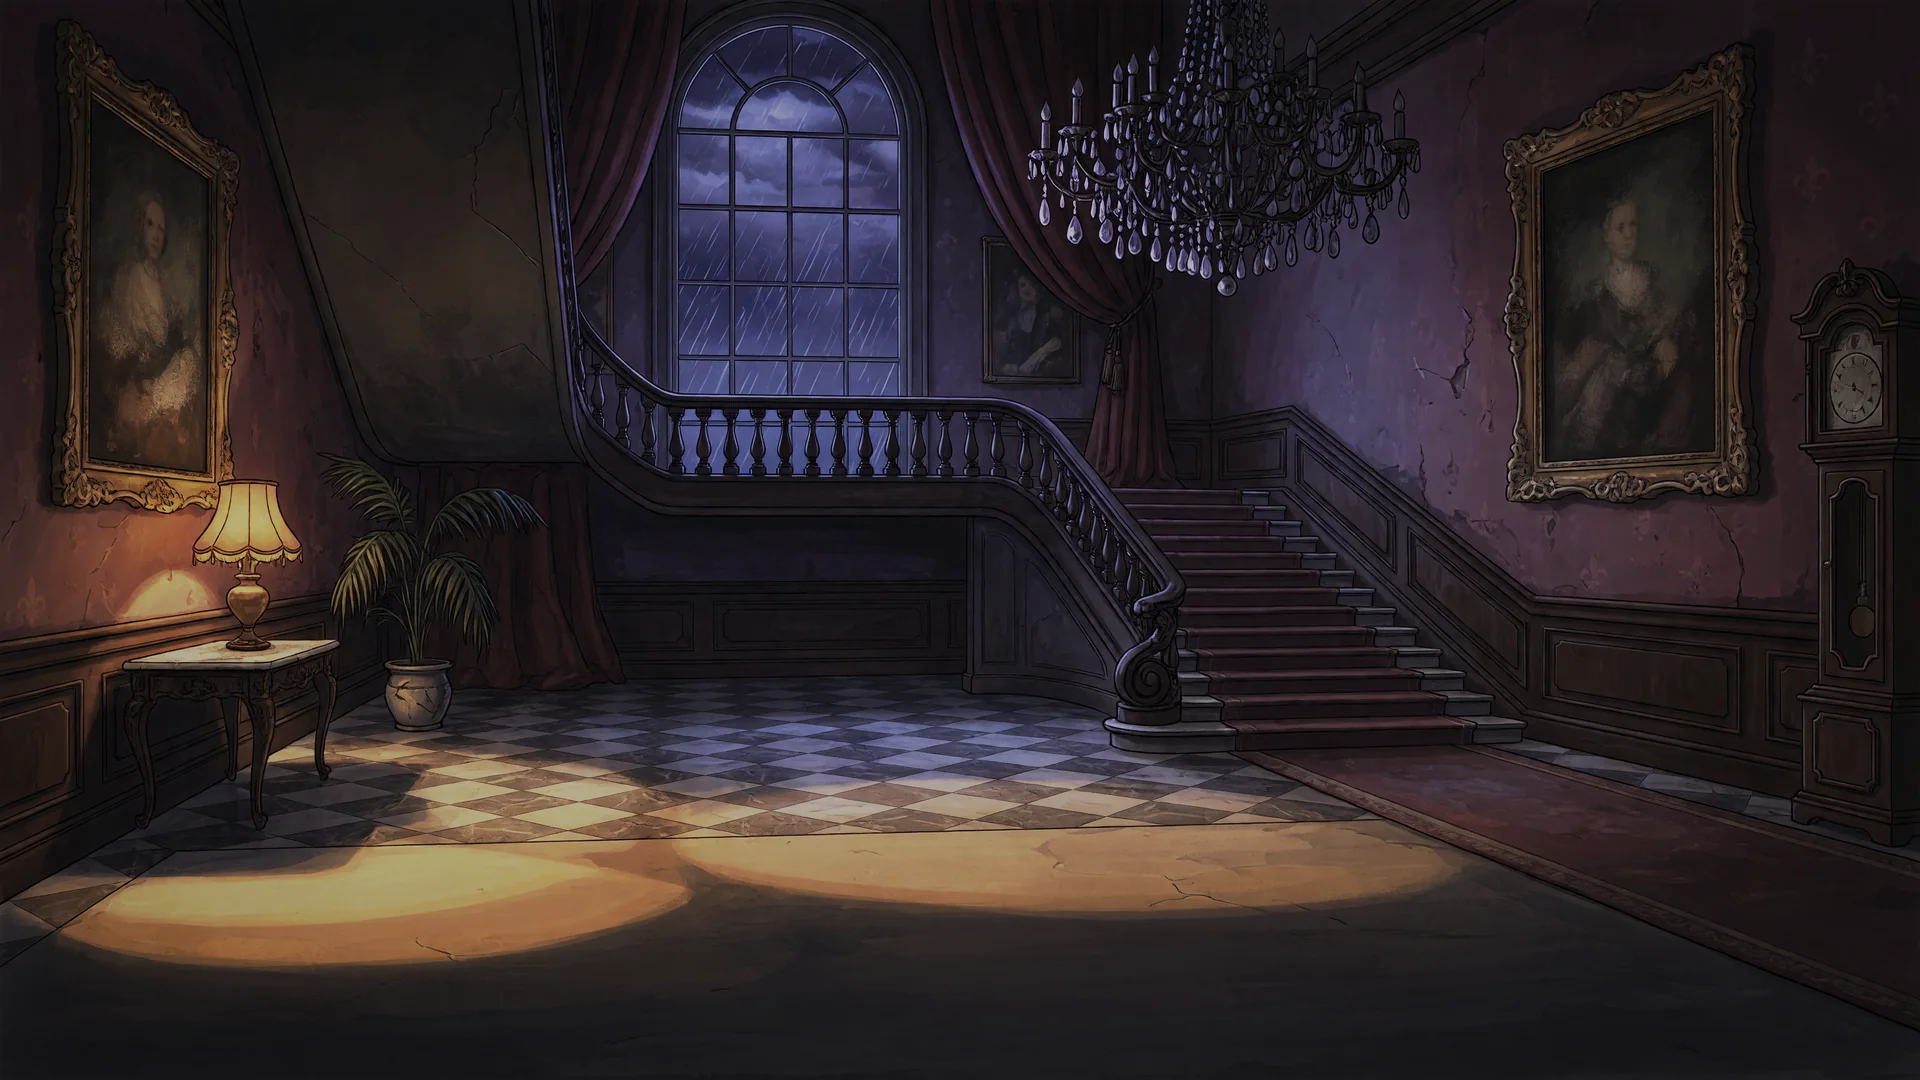
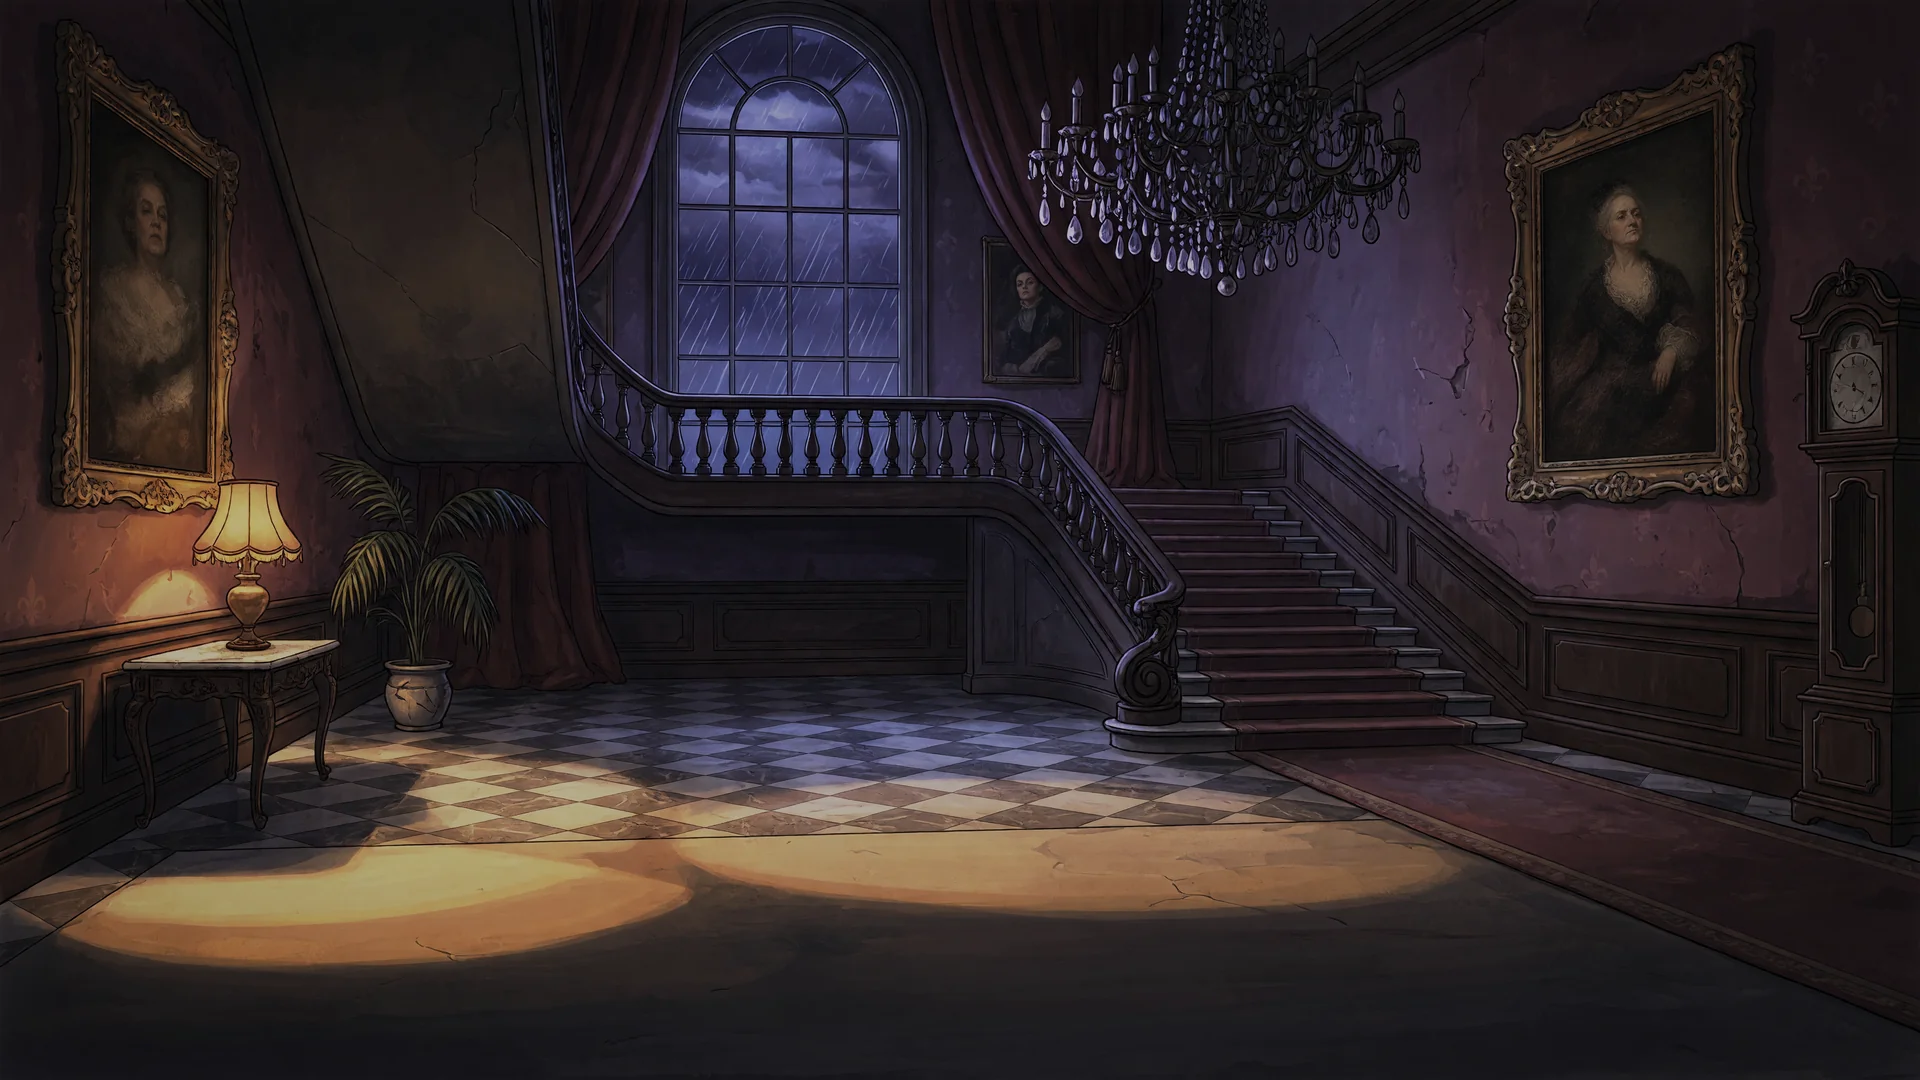
Polish-1: theatrical SAD poses for all four suspects, phone title layout clears the mansion, clearer painted manor portraits (base + lightning), bible log, preview

diff --git a/components/game/TitleScreen.tsx b/components/game/TitleScreen.tsx
@@ -4,9 +4,10 @@ import { motion } from "framer-motion";
 import Image from "next/image";
 
 // Title card art: docs/ART_BIBLE.md §7.0 (assets/title/ -> /assets/title/ via sync:assets).
+// Phones (max-sm): tighter tagline + button and less bottom padding so the stack clears the mansion base.
 export function TitleScreen({ tagline, onStart }: { tagline: string; onStart: () => void }) {
   return (
-    <main className="relative flex min-h-0 flex-1 flex-col items-center justify-between overflow-hidden bg-[#1b1035] bg-[url(/assets/title/title_bg.webp)] bg-cover bg-center px-6 py-[6vh] text-center">
+    <main className="relative flex min-h-0 flex-1 flex-col items-center justify-between overflow-hidden bg-[#1b1035] bg-[url(/assets/title/title_bg.webp)] bg-cover bg-center px-6 py-[6vh] text-center max-sm:pb-[3vh]">
       <div aria-hidden className="pointer-events-none absolute left-1/2 top-[22%] w-[130vmin] -translate-x-1/2 -translate-y-1/2">
         <motion.img
           src="/assets/title/sunburst.webp"
@@ -26,7 +27,7 @@ export function TitleScreen({ tagline, onStart }: { tagline: string; onStart: ()
       </motion.h1>
       <div className="relative flex flex-col items-center">
         <motion.p
-          className="relative max-w-xl rounded-2xl border-4 border-black bg-white px-6 py-3 text-lg font-bold text-black shadow-[6px_6px_0_#000] sm:text-xl"
+          className="relative max-w-xl rounded-2xl border-4 border-black bg-white px-6 py-3 text-lg font-bold text-black shadow-[6px_6px_0_#000] max-sm:max-w-80 max-sm:px-4 max-sm:py-2 max-sm:text-sm max-sm:shadow-[4px_4px_0_#000] sm:text-xl"
           initial={{ y: 40, opacity: 0 }}
           animate={{ y: 0, opacity: 1 }}
           transition={{ delay: 0.5, type: "spring", stiffness: 200 }}
@@ -36,7 +37,7 @@ export function TitleScreen({ tagline, onStart }: { tagline: string; onStart: ()
         <motion.button
           type="button"
           onClick={onStart}
-          className="relative mt-8 cursor-pointer rounded-full border-4 border-black bg-red-500 px-10 py-4 font-display text-3xl tracking-widest text-white shadow-[6px_6px_0_#000] hover:bg-red-400 active:translate-y-1 active:shadow-[2px_2px_0_#000]"
+          className="relative mt-8 cursor-pointer rounded-full border-4 border-black bg-red-500 px-10 py-4 font-display text-3xl tracking-widest text-white shadow-[6px_6px_0_#000] hover:bg-red-400 active:translate-y-1 active:shadow-[2px_2px_0_#000] max-sm:mt-5 max-sm:px-8 max-sm:py-3 max-sm:text-2xl"
           initial={{ opacity: 0, scale: 0.5 }}
           animate={{ opacity: 1, scale: [1, 1.08, 1] }}
           whileHover={{ rotate: [0, -3, 3, 0] }}

diff --git a/docs/ART_BIBLE.md b/docs/ART_BIBLE.md
@@ -73,7 +73,7 @@ Reginald, an original cartoon butler: a very tall, extremely thin, stick-like mi
 | nervous | `Pose: nervous — his whole posture collapses dramatically: knees bent and knocking, shoulders hunched, spine curved like a wilting noodle, big worried eyes darting, wobbly mouth, sweat drops flying off his head, dabbing his forehead with the tiny white handkerchief in one gloved hand.` |
 | shocked | `Pose: shocked — body stretched extra tall and rigid, eyes enormous and bulging, jaw dropped wide open, eyebrows shot up high, arms stiff and fingers splayed out.` |
 | smug | `Pose: smug — leaning back slightly with nose held high in the air, one eyebrow raised, half-lidded self-satisfied eyes, small tight smirk, one gloved hand resting on his lapel.` |
-| sad | `Pose: sad — drooping posture, shoulders slumped, head hung low, long arms dangling limply, eyebrows tilted up in the middle, glistening sad eyes, mouth turned down.` |
+| sad | `Pose: sad — theatrically, unmistakably sad at a glance: a heavy slump with the whole body sagging, drooping shoulders, head hanging forward and low, dabbing the corner of one eye with a tiny white handkerchief held in one white-gloved hand, the other long arm dangling limply, big watery glistening eyes brimming with tears, eyebrows tilted steeply up in the middle, trembling down-turned lower lip, a single tear rolling down his cheek. His mustache stays exactly as thin and neat as in the reference; same slicked hair and same black tailcoat.` |
 
 ---
 
@@ -111,7 +111,7 @@ Victoria, an original cartoon aristocratic widow: a tall, slender, elegant middl
 | nervous | `Pose: nervous — trying to stay composed but failing, fluttering her open fan rapidly in front of her face, eyes darting sideways, shoulders raised tensely, sweat drops flying off her head, knees pressed together.` |
 | shocked | `Pose: shocked — complete loss of composure: body stretched tall, both arms flung up in the air, her fan flying out of her hand, eyes enormous and bulging, mouth wide open, her updo coming loose with strands of hair springing out.` |
 | smug | `Pose: smug — very composed and superior, fan held open covering her mouth and nose, only her half-lidded self-satisfied eyes visible above it, one eyebrow arched, chin lifted, other hand on her hip.` |
-| sad | `Pose: sad — shoulders slumped gracefully, head bowed, eyes downcast and glistening, closed fan held against her chest with both gloved hands, eyebrows tilted up in the middle, mouth turned down.` |
+| sad | `Pose: sad — her composure breaking quietly: shoulders drooping, head bowed, the back of one gloved hand pressed to her brow in a theatrical gesture of sorrow, the other hand holding her fan lowered and CLOSED down at her side, big watery glistening eyes, eyebrows tilted up in the middle, trembling down-turned lower lip, a single tear on her cheek.` |
 
 ---
 
@@ -149,7 +149,7 @@ Archibald Crane, an original cartoon pompous businessman: a short, very wide, ro
 | nervous | `Pose: nervous — shrinking slightly, anxiously checking his gold pocket watch in one hand, tugging his tight collar with the other, sweat drops flying off his bald head, darting worried eyes, forced wobbly grin.` |
 | shocked | `Pose: shocked — jumping back with his round body stiff, eyes huge and bulging, jaw dropped, cigar falling out of his mouth, sideburns bristling, arms flung out, short legs off balance.` |
 | smug | `Pose: smug — leaning back with belly thrust forward, cigar tilted up jauntily, eyes half-lidded, big self-satisfied grin showing a gold tooth, thumbs in his waistcoat.` |
-| sad | `Pose: sad — deflated and sagging, belly drooping, shoulders slumped, cigar drooping down limply from his lip, eyebrows tilted up, mouth turned down, arms hanging at his sides.` |
+| sad | `Pose: sad — utterly deflated: his whole body sags, his huge belly droops low, shoulders slumped, head hanging, cigar drooping straight down limply from his lip, one hand holding open an EMPTY brown wallet upside down, the other hand pulling out a turned-out empty trouser pocket lining, big watery glistening eyes, huge eyebrows tilted steeply up in the middle, trembling down-turned lower lip, a single tear.` |
 
 ---
 
@@ -187,7 +187,7 @@ Gregory, an original cartoon gardener: a small, short, skinny hunched young man 
 | nervous | `Pose: nervous — shrinking and trembling, knees knocking together, clutching the shears tightly to his chest, huge frightened eyes darting sideways, sweat drops flying off his head, biting his lip.` |
 | shocked | `Pose: shocked — jolting upright in fright, his flat cap flying off his head, hair standing on end, eyes enormous and bulging, mouth wide open, arms flung up, shears flying from his hands.` |
 | smug | `Pose: smug — a rare sly little private grin, eyes half-lidded and knowing, one eyebrow raised, leaning on his closed pruning shears like a cane, other hand in his overall pocket.` |
-| sad | `Pose: sad — even more hunched and small, head hanging, big eyes glistening with tears, cap held in both hands against his chest, shears leaning against his leg, mouth turned down.` |
+| sad | `Pose: sad — shoulders hunched up high toward his ears, head hanging, bare-headed and anxiously twisting and wringing his flat cap in both hands in front of his chest, big watery glistening eyes brimming with tears, eyebrows tilted up in the middle, trembling down-turned lower lip, a single tear rolling down his cheek, garden shears leaning against his leg.` |
 
 ---
 
@@ -315,7 +315,7 @@ The opening screen should play like the title card of a 1940s theatrical cartoon
 | Background composition | The mansion is small and low: tower tops at ≈40% of frame height, with the hill across the bottom ≈45%. The upper-middle sky is kept open for the logo. A bent dead tree stands at the left and a lightning bolt with a broken fence at the right. The bolt is part of the painting (the title card has no separate flash frame; for a flash, briefly apply `filter: brightness(1.6) saturate(.5)` to the `<main>`). Grade: `grade(sat=0.92, hi=0.15, vig=0.35, center=(0.5, 0.5))`, a little livelier than the gameplay rooms |
 | Logo | Bangers (SIL OFL 1.1, see `assets/fonts/LICENSES.md`), drawn per letter by the share-image code (`toon-drafts/og/make_og.py → title()`), so it matches `app/opengraph-image.jpg`. Settings: size 330, 11 px→18 px black outline, yellow `#FFEC5A` → `#FFC428` → orange `#FF7618` gradient, plum-black `#12061C` drop shadow offset (16, 19), per-letter tilt `[-7, 4, -4, 5, -5, 3, -3, 4, 9, -5]°`, sine bounce ±20 px, whole word tilted 4° up to the right. The logo's I–T kerning is +14 (the OG image uses +6). The SVG has the same geometry but no glossy highlight stripe |
 | Sunburst | 28 alternating rays (14 lit) in `#FFBE46`, alpha 0.6×(1−r)^2.2, so they fade out before the frame edge. Place it centered behind the logo at ≈130vmin wide and rotate it slowly (one turn per 90 s) |
-| Screen layout (wired in `components/game/TitleScreen.tsx`) | `<main>`: `bg-[url(/assets/title/title_bg.webp)] bg-cover bg-center`, `justify-between`, `py-[6vh]`. Logo `<h1>` at the top (width `min(90vw, 1100px, 105vh)`, `alt="WHODUNIT?!"`). Sunburst centered at `top: 22%`. Tagline plus START button in a bottom group, sitting on the hill. Checked at 1920×1080, 1280×800 and 390×844 |
+| Screen layout (wired in `components/game/TitleScreen.tsx`) | `<main>`: `bg-[url(/assets/title/title_bg.webp)] bg-cover bg-center`, `justify-between`, `py-[6vh]`. Logo `<h1>` at the top (width `min(90vw, 1100px, 105vh)`, `alt="WHODUNIT?!"`). Sunburst centered at `top: 22%`. Tagline plus START button in a bottom group, sitting on the hill. Phones (`max-sm`, <640 px): tagline `text-sm px-4 py-2 max-w-80` with a 4 px shadow, button `text-2xl px-8 py-3 mt-5`, bottom padding `3vh`, so the group sits below the mansion's foundation instead of covering it (polish-1). `sm` and up are unchanged. Checked at 1920×1080, 1280×800 and 390×844 |
 | Iris transition (not shipped) | For an iris-out into the game, animate `clip-path: circle(R at 50% 50%)` from `R = 75vmax` to `0` on the outgoing screen over a black backdrop, 450–600 ms, `easeIn`, with a slide-whistle-down SFX. That needs no bitmap, which is why there's no PNG mask |
 | Mock | `docs/art/title_mock.jpg`: real screenshots of the running production build, plus the individual assets |
 
@@ -349,8 +349,8 @@ Scene: a grand old mansion library at night during a storm. A tall arched window
 | Field | Value |
 |---|---|
 | Files | `assets/backgrounds/manor.webp` (1920×1080, q85, ~176 KB), `assets/backgrounds/manor_lightning.webp` (1920×1080, q85, ~242 KB), `assets/backgrounds/manor_window_mask.webp` (1920×1080 alpha, glass only, lossless ~13 KB) |
-| Masters | `toon-drafts/backgrounds/raw/manor_2560x1440.png`, `manor_lightning_2560x1440.png` (+ `_1920x1080.png` lossless), `manor_window_mask.png` |
-| Contents | Same mansion as the library. A sweeping staircase with a carved banister rises on the right to a back gallery landing. A tall arched storm window sits above the landing (upper center-left; rain, no bolt at rest). An unlit crystal chandelier hangs top center-right. Gilt-framed portraits are darkened so their faces are unreadable smudges (left wall, right wall, and a small one on the landing). Oxblood curtains, plum walls, wainscoting, a marble side table with an amber lamp (far left), a potted palm, a grandfather clock (far right), a worn checkerboard marble floor with an oxblood runner, and two amber floor pools |
+| Masters | `toon-drafts/backgrounds/raw/manor_p1_2560x1440.png`, `manor_lightning_p1_2560x1440.png` (+ `_p1_1920x1080.png` lossless; the pre-polish `manor_*` files without `_p1` are the v0.1 masters), `manor_window_mask.png` (unchanged) |
+| Contents | Same mansion as the library. A sweeping staircase with a carved banister rises on the right to a back gallery landing. A tall arched storm window sits above the landing (upper center-left; rain, no bolt at rest). An unlit crystal chandelier hangs top center-right. Three gilt-framed portraits (left wall, right wall, and a small one on the landing) hold dim, painted, stern ancestors: generic, original sitters in the old umber/ochre palette, readable but still sunk in the gloom (repainted in polish-1; before that they were faceless smudges). Oxblood curtains, plum walls, wainscoting, a marble side table with an amber lamp (far left), a potted palm, a grandfather clock (far right), a worn checkerboard marble floor with an oxblood runner, and two amber floor pools |
 | Window region | x 35.1–47.1%, y 1.8–44.4% of frame (center ≈ 41%, 23%). This is the anchor for the `lightning` effect overlay in this room |
 | Rain layer / lightning swap | Same recipe as §7.1, using `manor_window_mask.webp` and `manor_lightning.webp`. The mask excludes the landing balusters and most of the mullions |
 | Screen fit (actual app) | `SuspectSelect` renders a header plus four cream cards (`grid-cols-2 lg:grid-cols-4`, `max-w-6xl`). Sprites sit inside the cards, so this background is a **backdrop, not a stage**: at 1920×1080 the cards cover roughly y 13–50% and x 20–80%. The composition puts the window and chandelier behind the "PICK A SUSPECT!" header, the portraits, lamp and clock flanking the cards, and the empty lit floor below them. Use it as `bg-[#1b1035] bg-[url(/assets/backgrounds/manor.webp)] bg-cover bg-center` on the `<main>`. It needs no dark overlay: the cards and the yellow header read on it as-is (checked at 1920×1080, 1280×800 and 390×844) |
@@ -428,3 +428,14 @@ Non-neutral poses use the xAI image edit endpoint with that character's approved
 - Bolt removal: 2 edits. Chose v1 (mean diff 4.7/255, zero shift, edge correlation 0.85 mean / 0.62 min). Only the window glass was composited back (feathered diff mask limited to the arch), so the rest of the frame is the untouched base.
 - Lightning: 2 edits. Chose v2 (visible bolt, window-mullion shadows thrown across the floor, zero shift), which matches the library lightning frame.
 - Graded with `grade.py` (same settings as the library; the lightning frame uses the lighter grade). Window mask: blue-sky pixel classifier clipped to the measured arch. Build script: `toon-drafts/backgrounds/manor_build.py`; mock: `manor_mock.py`.
+
+### Polish-1 (sad poses, mobile title, manor portraits)
+- **SAD, all four, redone** (v0.1 sad read too close to neutral). §4 sad pose lines rewritten to be theatrical (heavy slump, drooping shoulders, hanging head, watery eyes, trembling lip, single tear, plus a prop beat per character). Same pipeline: `tools/gen.py` edit with the neutral REF, locked style/avoid/description, face-left line, `grok-imagine-image-2.0`. Packed by `tools/pack_sad_p1.py`, which uses each character's existing scale from `characters/scale_report.json` (R 1.0, V 0.9115, A 0.8583, G 0.6893), 784×1224, feet y=1200, x=392 via the pack_v2 bottom-10% feet center. Repo webp q86 / alpha q90 / method 6. Old masters kept in `toon-drafts/raw/old_sad_v01/`.
+  - Reginald: 9 candidates → **p1v9**. v1–v8 all thickened the mustache into a chevron or droopy walrus (v1/v2 with no extra wording; v3–v5 with "not bushy"; v6–v8 with "tiny pencil line"). v9 keeps the thin curled pencil mustache. He dabs his eye with the handkerchief, a tear falls, and his head is bowed. His slump is milder than asked (the edit endpoint holds his upright REF posture).
+  - Victoria: 5 → **p1v5**. v1–v3 lowered the fan but left it OPEN; v4 was half-open; v5 has it shut, with a gloved hand at her brow and a tear.
+  - Archibald: 4 → **p1v3**. Head sunk, cigar drooping, empty wallet in one hand and a turned-out pocket in the other. v4 was nearly as good but the cigar tilted up.
+  - Gregory: 4 → **p1v1**. He wrings his cap, with watery eyes and a tear. v3/v4 invented a grey rag. The shears are dropped in the new pose.
+  - Anchors: **archibald.sad and gregory.sad updated** (the head moved). Reginald and Victoria sad are unchanged: their json points still land on the head (auto re-detect within ≈10 px for Victoria; Reginald's handkerchief confuses the auto-detector, but the existing points are visually correct).
+- **Title 390×844**: phone-only (`max-sm`) tightening of the tagline, button and bottom padding in `TitleScreen.tsx`, so the tagline no longer covers the mansion base. No asset changes. Desktop screenshots at 1280×800 and 1920×1080 are pixel-identical before and after.
+- **Manor portraits**: each portrait crop (2×/4× upscaled from `raw/manor_BASE_nobolt.png`) went through the xAI edit with a "same sitter, clearer, stern anonymous ancestor, muted old palette, no text" instruction. Left: 2 candidates → v2. Right: 2 → v1. Landing: 5 → v4 (v1/v2 looked like a glamorous film star, so the prompt was re-worded to a plain stern matron). Only the canvas-interior polygons were composited back (5 px erode, 2.5 px feather), onto the pre-grade base AND the lightning base. The lightning copy got a per-portrait 3×3+offset colour fit (base→lightning) so the flash doesn't pop. Then the same `grade()` + q85 export as v0.1. Changed pixels are confined to the three canvases (1920 frame bbox x 83–1723, y 86–471; frames, curtain and window untouched), so `manor_window_mask.webp` is unchanged. Script: `toon-drafts/backgrounds/portraits/apply.py`.
+- Preview: `docs/art/polish1_preview.jpg`.
